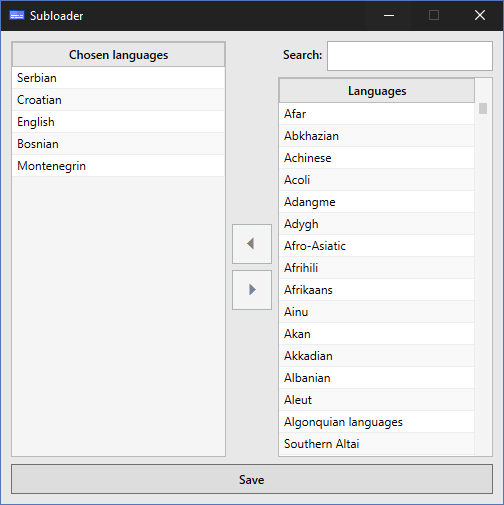
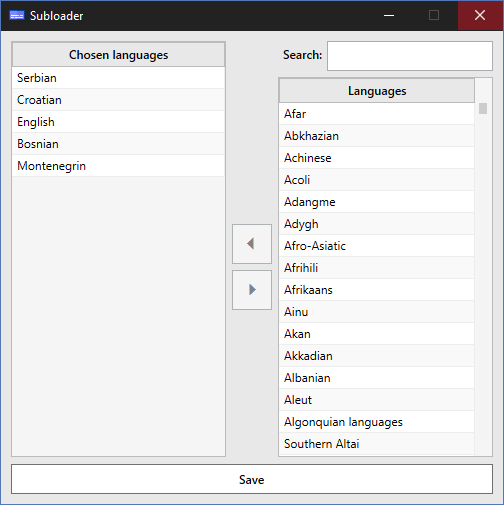
minor color change in UI

Changed region(s): [[0.0, 0.9208, 0.9821, 0.9802], [0.8929, 0.0, 1.0, 0.0594]]

diff --git a/SubLoad/Views/SettingsControl.xaml b/SubLoad/Views/SettingsControl.xaml
@@ -123,6 +123,6 @@
                 </DataGrid.Resources>
             </DataGrid>
         </Grid>
-        <Button Margin="0,7,0,0" Command="{Binding SaveCommand}" VerticalAlignment="Top" Grid.Row="5" Height="30" Content="Save"></Button>
+        <Button Margin="0,7,0,0" Command="{Binding SaveCommand}" VerticalAlignment="Top" Grid.Row="5" Height="30" Content="Save" Background="#ffffff"></Button>
     </StackPanel>
 </UserControl>
